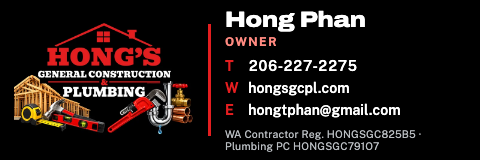
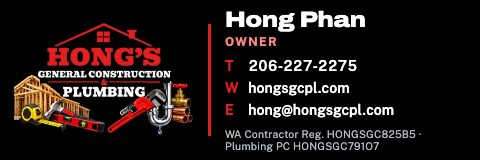
Public email moves to estimates@hongsgcpl.com; signature shows hong@hongsgcpl.com
Leads leave Hong's Gmail: the site's contact link, footer, form error
text and schema.org email now point at estimates@ (MXroute forwarder to
hong@, also the Web3Forms recipient). Signature PNGs re-rendered with
hong@hongsgcpl.com.

Changed region(s): [[0.5625, 0.625, 0.8438, 0.75]]

diff --git a/Website/vi/index.html b/Website/vi/index.html
@@ -26,7 +26,7 @@
 <meta property="og:image:height" content="630">
 <meta property="og:locale" content="vi_VN">
 <meta name="twitter:card" content="summary_large_image">
-<script type="application/ld+json">{"@context": "https://schema.org", "@type": ["GeneralContractor", "Plumber"], "@id": "https://hongsgcpl.com/#business", "name": "Hong's General Construction & Plumbing", "url": "https://hongsgcpl.com/", "logo": "https://hongsgcpl.com/assets/img/icon-512.png", "image": "https://hongsgcpl.com/assets/img/og-image.jpg", "telephone": "+1-206-227-2275", "email": "hongtphan@gmail.com", "description": "New homes and commercial construction from start to finish, plus plumbing for homes and businesses. 35 years of experience, insured and bonded. Serving the Seattle area. Call 206-227-2275.", "founder": {"@type": "Person", "name": "Hong Phan"}, "address": {"@type": "PostalAddress", "addressLocality": "Federal Way", "addressRegion": "WA", "addressCountry": "US"}, "areaServed": [{"@type": "City", "name": "Seattle, WA"}, {"@type": "City", "name": "Bellevue, WA"}, {"@type": "City", "name": "Tacoma, WA"}, {"@type": "City", "name": "Everett, WA"}, {"@type": "City", "name": "Kent, WA"}, {"@type": "City", "name": "Federal Way, WA"}, {"@type": "City", "name": "Renton, WA"}, {"@type": "City", "name": "Auburn, WA"}], "knowsLanguage": ["en", "vi"], "identifier": [{"@type": "PropertyValue", "name": "WA L&I Construction Contractor Registration", "value": "HONGSGC825B5"}, {"@type": "PropertyValue", "name": "WA L&I Plumbing Contractor Registration", "value": "HONGSGC791O7"}], "makesOffer": [{"@type": "Offer", "itemOffered": {"@type": "Service", "name": "New home construction"}}, {"@type": "Offer", "itemOffered": {"@type": "Service", "name": "Commercial construction"}}, {"@type": "Offer", "itemOffered": {"@type": "Service", "name": "Residential plumbing"}}, {"@type": "Offer", "itemOffered": {"@type": "Service", "name": "Commercial plumbing"}}, {"@type": "Offer", "itemOffered": {"@type": "Service", "name": "Plumbing repair"}}]}</script>
+<script type="application/ld+json">{"@context": "https://schema.org", "@type": ["GeneralContractor", "Plumber"], "@id": "https://hongsgcpl.com/#business", "name": "Hong's General Construction & Plumbing", "url": "https://hongsgcpl.com/", "logo": "https://hongsgcpl.com/assets/img/icon-512.png", "image": "https://hongsgcpl.com/assets/img/og-image.jpg", "telephone": "+1-206-227-2275", "email": "estimates@hongsgcpl.com", "description": "New homes and commercial construction from start to finish, plus plumbing for homes and businesses. 35 years of experience, insured and bonded. Serving the Seattle area. Call 206-227-2275.", "founder": {"@type": "Person", "name": "Hong Phan"}, "address": {"@type": "PostalAddress", "addressLocality": "Federal Way", "addressRegion": "WA", "addressCountry": "US"}, "areaServed": [{"@type": "City", "name": "Seattle, WA"}, {"@type": "City", "name": "Bellevue, WA"}, {"@type": "City", "name": "Tacoma, WA"}, {"@type": "City", "name": "Everett, WA"}, {"@type": "City", "name": "Kent, WA"}, {"@type": "City", "name": "Federal Way, WA"}, {"@type": "City", "name": "Renton, WA"}, {"@type": "City", "name": "Auburn, WA"}], "knowsLanguage": ["en", "vi"], "identifier": [{"@type": "PropertyValue", "name": "WA L&I Construction Contractor Registration", "value": "HONGSGC825B5"}, {"@type": "PropertyValue", "name": "WA L&I Plumbing Contractor Registration", "value": "HONGSGC791O7"}], "makesOffer": [{"@type": "Offer", "itemOffered": {"@type": "Service", "name": "New home construction"}}, {"@type": "Offer", "itemOffered": {"@type": "Service", "name": "Commercial construction"}}, {"@type": "Offer", "itemOffered": {"@type": "Service", "name": "Residential plumbing"}}, {"@type": "Offer", "itemOffered": {"@type": "Service", "name": "Commercial plumbing"}}, {"@type": "Offer", "itemOffered": {"@type": "Service", "name": "Plumbing repair"}}]}</script>
 </head>
 <body>
 <a class="skip" href="#main">Đến nội dung chính</a>
@@ -98,11 +98,11 @@
         <div class="sec-head"><h2 id="contact-h">Liên hệ</h2><p>Hãy cho chúng tôi biết về công trình của quý khách, chúng tôi sẽ liên lạc lại. Việc gấp, xin gọi điện.</p></div>
         <div class="reach">
           <a href="tel:+12062272275"><span>Điện thoại</span>206-227-2275</a>
-          <a href="mailto:hongtphan@gmail.com"><span>Email</span>hongtphan@gmail.com</a>
+          <a href="mailto:estimates@hongsgcpl.com"><span>Email</span>estimates@hongsgcpl.com</a>
         </div>
       </div>
       <form id="estimate" action="https://api.web3forms.com/submit" method="POST"
-            data-sending="Đang gửi…" data-ok="Cảm ơn quý khách, chúng tôi đã nhận được tin nhắn và sẽ liên lạc sớm. Việc gấp, xin gọi 206-227-2275." data-err="Không gửi được. Xin gọi 206-227-2275 hoặc email hongtphan@gmail.com.">
+            data-sending="Đang gửi…" data-ok="Cảm ơn quý khách, chúng tôi đã nhận được tin nhắn và sẽ liên lạc sớm. Việc gấp, xin gọi 206-227-2275." data-err="Không gửi được. Xin gọi 206-227-2275 hoặc email estimates@hongsgcpl.com.">
         <input type="hidden" name="access_key" value="492fafe3-8454-4957-9095-edbc1853dd34">
         <input type="hidden" name="subject" value="[VI] Yêu cầu báo giá mới · website">
         <input type="hidden" name="from_name" value="Hong's website">
@@ -122,7 +122,7 @@
 
 <footer class="foot">
   <div class="in">
-    <p><strong>Hong's General Construction &amp; Plumbing</strong> · <a href="tel:+12062272275">206-227-2275</a> · <a href="mailto:hongtphan@gmail.com">hongtphan@gmail.com</a></p>
+    <p><strong>Hong's General Construction &amp; Plumbing</strong> · <a href="tel:+12062272275">206-227-2275</a> · <a href="mailto:estimates@hongsgcpl.com">estimates@hongsgcpl.com</a></p>
     <p>Số đăng ký nhà thầu WA HONGSGC825B5 · Nhà thầu ống nước WA HONGSGC791O7</p>
   </div>
 </footer>

diff --git a/Website/index.html b/Website/index.html
@@ -26,7 +26,7 @@
 <meta property="og:image:height" content="630">
 <meta property="og:locale" content="en_US">
 <meta name="twitter:card" content="summary_large_image">
-<script type="application/ld+json">{"@context": "https://schema.org", "@type": ["GeneralContractor", "Plumber"], "@id": "https://hongsgcpl.com/#business", "name": "Hong's General Construction & Plumbing", "url": "https://hongsgcpl.com/", "logo": "https://hongsgcpl.com/assets/img/icon-512.png", "image": "https://hongsgcpl.com/assets/img/og-image.jpg", "telephone": "+1-206-227-2275", "email": "hongtphan@gmail.com", "description": "New homes and commercial construction from start to finish, plus plumbing for homes and businesses. 35 years of experience, insured and bonded. Serving the Seattle area. Call 206-227-2275.", "founder": {"@type": "Person", "name": "Hong Phan"}, "address": {"@type": "PostalAddress", "addressLocality": "Federal Way", "addressRegion": "WA", "addressCountry": "US"}, "areaServed": [{"@type": "City", "name": "Seattle, WA"}, {"@type": "City", "name": "Bellevue, WA"}, {"@type": "City", "name": "Tacoma, WA"}, {"@type": "City", "name": "Everett, WA"}, {"@type": "City", "name": "Kent, WA"}, {"@type": "City", "name": "Federal Way, WA"}, {"@type": "City", "name": "Renton, WA"}, {"@type": "City", "name": "Auburn, WA"}], "knowsLanguage": ["en", "vi"], "identifier": [{"@type": "PropertyValue", "name": "WA L&I Construction Contractor Registration", "value": "HONGSGC825B5"}, {"@type": "PropertyValue", "name": "WA L&I Plumbing Contractor Registration", "value": "HONGSGC791O7"}], "makesOffer": [{"@type": "Offer", "itemOffered": {"@type": "Service", "name": "New home construction"}}, {"@type": "Offer", "itemOffered": {"@type": "Service", "name": "Commercial construction"}}, {"@type": "Offer", "itemOffered": {"@type": "Service", "name": "Residential plumbing"}}, {"@type": "Offer", "itemOffered": {"@type": "Service", "name": "Commercial plumbing"}}, {"@type": "Offer", "itemOffered": {"@type": "Service", "name": "Plumbing repair"}}]}</script>
+<script type="application/ld+json">{"@context": "https://schema.org", "@type": ["GeneralContractor", "Plumber"], "@id": "https://hongsgcpl.com/#business", "name": "Hong's General Construction & Plumbing", "url": "https://hongsgcpl.com/", "logo": "https://hongsgcpl.com/assets/img/icon-512.png", "image": "https://hongsgcpl.com/assets/img/og-image.jpg", "telephone": "+1-206-227-2275", "email": "estimates@hongsgcpl.com", "description": "New homes and commercial construction from start to finish, plus plumbing for homes and businesses. 35 years of experience, insured and bonded. Serving the Seattle area. Call 206-227-2275.", "founder": {"@type": "Person", "name": "Hong Phan"}, "address": {"@type": "PostalAddress", "addressLocality": "Federal Way", "addressRegion": "WA", "addressCountry": "US"}, "areaServed": [{"@type": "City", "name": "Seattle, WA"}, {"@type": "City", "name": "Bellevue, WA"}, {"@type": "City", "name": "Tacoma, WA"}, {"@type": "City", "name": "Everett, WA"}, {"@type": "City", "name": "Kent, WA"}, {"@type": "City", "name": "Federal Way, WA"}, {"@type": "City", "name": "Renton, WA"}, {"@type": "City", "name": "Auburn, WA"}], "knowsLanguage": ["en", "vi"], "identifier": [{"@type": "PropertyValue", "name": "WA L&I Construction Contractor Registration", "value": "HONGSGC825B5"}, {"@type": "PropertyValue", "name": "WA L&I Plumbing Contractor Registration", "value": "HONGSGC791O7"}], "makesOffer": [{"@type": "Offer", "itemOffered": {"@type": "Service", "name": "New home construction"}}, {"@type": "Offer", "itemOffered": {"@type": "Service", "name": "Commercial construction"}}, {"@type": "Offer", "itemOffered": {"@type": "Service", "name": "Residential plumbing"}}, {"@type": "Offer", "itemOffered": {"@type": "Service", "name": "Commercial plumbing"}}, {"@type": "Offer", "itemOffered": {"@type": "Service", "name": "Plumbing repair"}}]}</script>
 </head>
 <body>
 <a class="skip" href="#main">Skip to content</a>
@@ -98,11 +98,11 @@
         <div class="sec-head"><h2 id="contact-h">Get in touch</h2><p>Tell us about your project and we&#x27;ll get back to you. For anything urgent, call.</p></div>
         <div class="reach">
           <a href="tel:+12062272275"><span>Phone</span>206-227-2275</a>
-          <a href="mailto:hongtphan@gmail.com"><span>Email</span>hongtphan@gmail.com</a>
+          <a href="mailto:estimates@hongsgcpl.com"><span>Email</span>estimates@hongsgcpl.com</a>
         </div>
       </div>
       <form id="estimate" action="https://api.web3forms.com/submit" method="POST"
-            data-sending="Sending…" data-ok="Thanks, we got your message. Hong will reach out soon. If it&#x27;s urgent, call 206-227-2275." data-err="That didn&#x27;t send. Please call 206-227-2275 or email hongtphan@gmail.com.">
+            data-sending="Sending…" data-ok="Thanks, we got your message. Hong will reach out soon. If it&#x27;s urgent, call 206-227-2275." data-err="That didn&#x27;t send. Please call 206-227-2275 or email estimates@hongsgcpl.com.">
         <input type="hidden" name="access_key" value="492fafe3-8454-4957-9095-edbc1853dd34">
         <input type="hidden" name="subject" value="New estimate request · website">
         <input type="hidden" name="from_name" value="Hong's website">
@@ -122,7 +122,7 @@
 
 <footer class="foot">
   <div class="in">
-    <p><strong>Hong's General Construction &amp; Plumbing</strong> · <a href="tel:+12062272275">206-227-2275</a> · <a href="mailto:hongtphan@gmail.com">hongtphan@gmail.com</a></p>
+    <p><strong>Hong's General Construction &amp; Plumbing</strong> · <a href="tel:+12062272275">206-227-2275</a> · <a href="mailto:estimates@hongsgcpl.com">estimates@hongsgcpl.com</a></p>
     <p>WA Contractor Reg. HONGSGC825B5 · WA Plumbing Contractor HONGSGC791O7</p>
   </div>
 </footer>

diff --git a/Website/source/signature/signature.html b/Website/source/signature/signature.html
@@ -23,7 +23,7 @@ html,body{margin:0;background:#000}
     <div class="role">Owner</div>
     <div class="line"><b>T</b> 206-227-2275</div>
     <div class="line"><b>W</b> hongsgcpl.com</div>
-    <div class="line"><b>E</b> hongtphan@gmail.com</div>
+    <div class="line"><b>E</b> hong@hongsgcpl.com</div>
     <div class="reg">WA Contractor Reg. HONGSGC825B5 · Plumbing PC HONGSGC791O7</div>
   </div>
 </div>

diff --git a/Website/source/build_pages.py b/Website/source/build_pages.py
@@ -9,13 +9,14 @@ from pathlib import Path
 
 SITE = Path(__file__).resolve().parent.parent
 
-# Web3Forms access key (public by design; it only lets the form email hongtphan@gmail.com).
+# Web3Forms access key (public by design; it only lets the form email estimates@hongsgcpl.com,
+# a linked email set as the recipient in the Web3Forms dashboard, which forwards to hong@).
 WEB3FORMS_KEY = "492fafe3-8454-4957-9095-edbc1853dd34"
 
 BASE = "https://hongsgcpl.com/"
 PHONE = "206-227-2275"
 TEL = "tel:+12062272275"
-EMAIL = "hongtphan@gmail.com"
+EMAIL = "estimates@hongsgcpl.com"
 CC = "HONGSGC825B5"
 PC = "HONGSGC791O7"
 CITIES = ["Seattle", "Bellevue", "Tacoma", "Everett", "Kent", "Federal Way", "Renton", "Auburn"]
